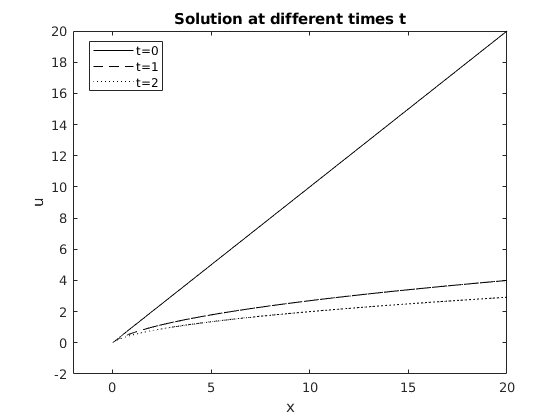
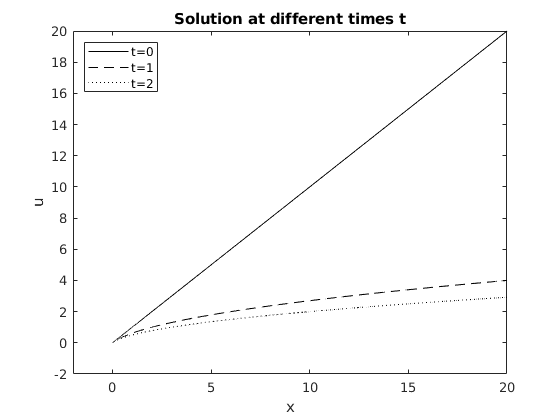
Correct mistake in hw5

diff --git a/hw5/plots/q1.m b/hw5/plots/q1.m
@@ -22,7 +22,7 @@ title('Solution at t=1');
 % Part (b)
 
 % Functions
-phi = @(x0) (1 ./ (1 + x0).^2) .* (x0 <= 0) + ((1 + x0).^2) .* (x0 > 0);
+phi = @(x0) (1 ./ (1 + x0.^2)) .* (x0 <= 0) + (1 + x0.^2) .* (x0 > 0);
 x2 = @(s, x0) phi(x0).^2 * s + phi(x0);
 U2 = @(x0) phi(x0);
 
@@ -50,4 +50,4 @@ ylabel('u');
 xlim([-2, 20]);
 ylim([-2, 20]);
 title('Solution at different times t');
-legend(strcat('t=', string(ss)));
+legend(strcat('t=', string(ss)), 'location', 'northwest');

diff --git a/hw5/hw5.tex b/hw5/hw5.tex
@@ -150,7 +150,7 @@ characteristics follow
     x(s) &=
         \begin{dcases}
             \frac{s}{\del{1 + x_0^2}^2} + x_0, & x_0 \leq 0, \\
-            \del{1 + x_0}^2 s + x_0, & x_0 > 0,
+            \del{1 + x_0^2}^2 s + x_0, & x_0 > 0,
         \end{dcases} \\
     U(s) &=
         \begin{dcases}
